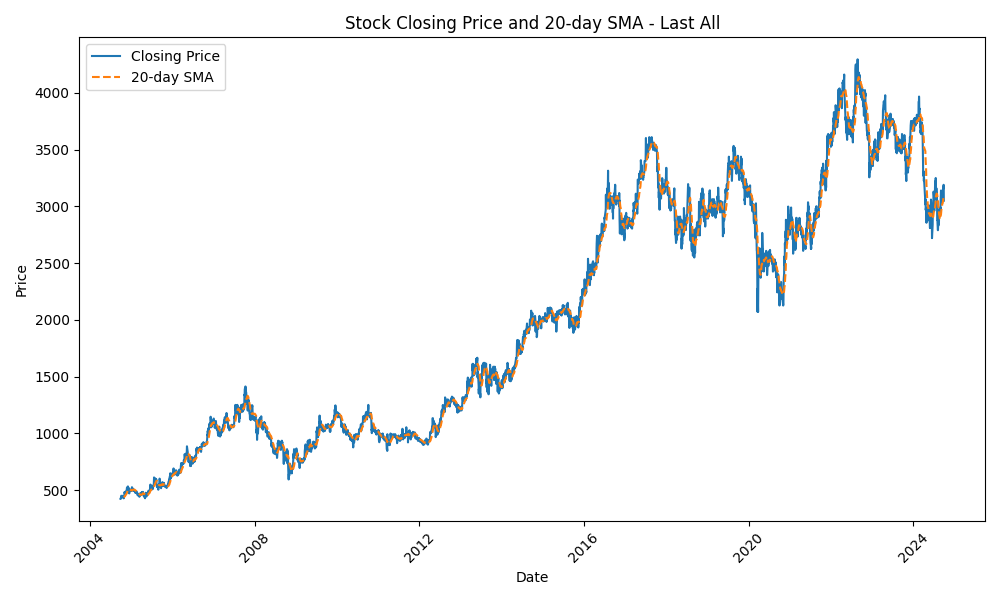
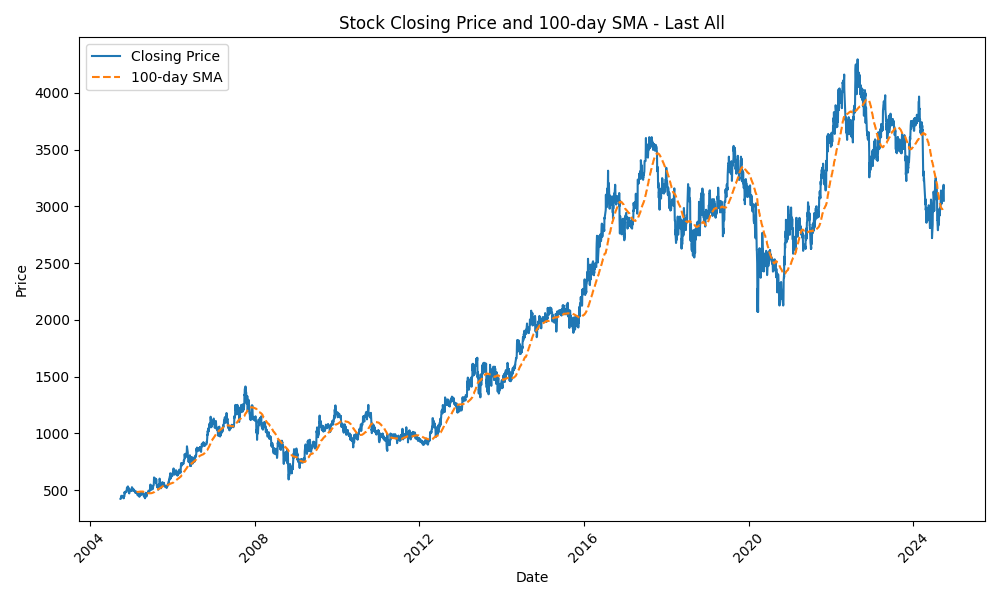
visual : update volume and time series option

diff --git a/visual.py b/visual.py
@@ -17,12 +17,16 @@ class Visual(Data):
         # Filter data berdasarkan range waktunya
         today = pd.Timestamp.now()
 
-        if date_range == 'year':
+        if date_range == '5 year':
+            start_date = today - pd.DateOffset(years=5)
+        elif date_range == 'year':
             start_date = today - pd.DateOffset(years=1)
+        elif date_range == 'month':
+            start_date = today - pd.DateOffset(months=1)
         elif date_range == 'week':
             start_date = today - pd.DateOffset(weeks=1)
         elif date_range == 'all':
-            start_date = stock_data['Date'].min()  # Use the earliest date if no range specified
+            start_date = stock_data['Date'].min() 
 
         stock_data = stock_data[stock_data['Date'] >= start_date]
 
@@ -74,12 +78,16 @@ class Visual(Data):
         # Filter data berdasarkan range waktunya
         today = pd.Timestamp.now()
 
-        if date_range == 'year':
+        if date_range == '5 year':
+            start_date = today - pd.DateOffset(years=5)
+        elif date_range == 'year':
             start_date = today - pd.DateOffset(years=1)
+        elif date_range == 'month':
+            start_date = today - pd.DateOffset(months=1)
         elif date_range == 'week':
             start_date = today - pd.DateOffset(weeks=1)
         elif date_range == 'all':
-            start_date = stock_data['Date'].min()  # Use the earliest date if no range specified
+            start_date = stock_data['Date'].min() 
 
         daily_volume = daily_volume[daily_volume['Date'] >= start_date]
         

diff --git a/main.py b/main.py
@@ -21,12 +21,18 @@ class Main2:
 
 
     def run(self):
-        self.visual.time_series(20)
-        self.visual.time_series(3, 'week')
+        self.visual.time_series(100)
+        self.visual.time_series(50, '5 year')
         self.visual.time_series(10, 'year')
+        self.visual.time_series(5, 'month')
+        self.visual.time_series(3, 'week')
+        
         self.visual.monthly_average()
+
         self.visual.volume_analysis('all')
+        self.visual.volume_analysis('5 year')
         self.visual.volume_analysis('year')
+        self.visual.volume_analysis('month')
         self.visual.volume_analysis('week')
         self.visual.price_and_percent()
         pass
